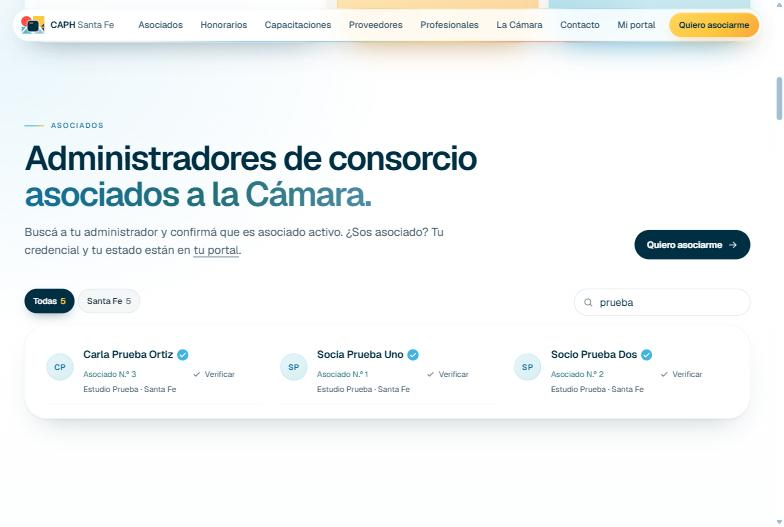
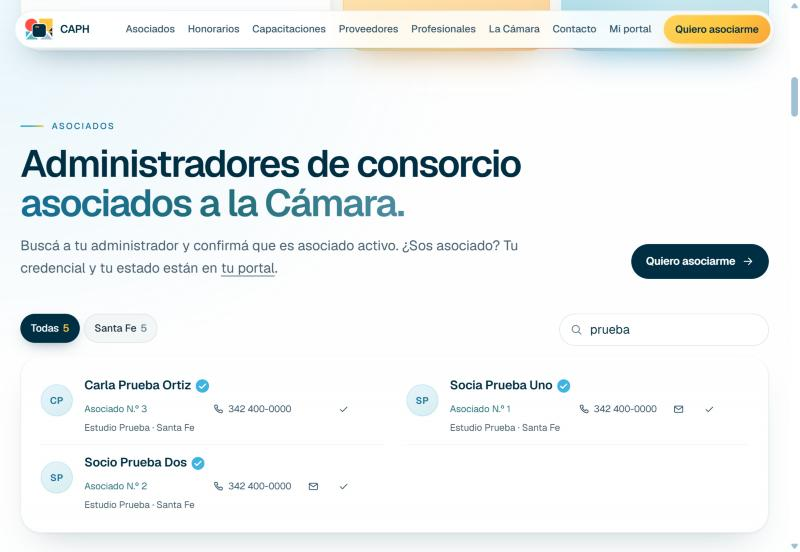
Asociados: teléfono y email en la sección de la web
- /api/caph/asociados suma teléfono y email (sigue sin dirección ni DNI/CUIT).
- La sección Asociados muestra el teléfono para llamar, el email y el ícono para verificar; el buscador
  también encuentra por teléfono o email.
- Menú: en pantallas de 1000 a 1240 px las ocho secciones entran en una línea.
- Instructivo actualizado (texto y captura).

diff --git a/components/Asociados.tsx b/components/Asociados.tsx
@@ -4,12 +4,12 @@ import { useId, useMemo, useState } from "react";
 import { coincide } from "../lib/buscar";
 import type { AsociadoPublico } from "../lib/content";
 import { Icon } from "./Icon";
-import { iniciales } from "./Proveedores";
+import { iniciales, telHref, telLabel } from "./Proveedores";
 
 /**
  * Directorio de asociados (administradores de consorcio), con el mismo formato que el de proveedores:
  * filtro por localidad, buscador y un adelanto hasta que se busca o se pide la lista entera.
- * Muestra solo datos públicos: nombre, N.º, estudio, localidad y web.
+ * Muestra nombre, N.º, estudio, localidad, teléfono, email y web (nunca la dirección ni el DNI).
  */
 export function Asociados({ asociados }: { asociados: AsociadoPublico[] }) {
   const searchId = useId();
@@ -27,7 +27,9 @@ export function Asociados({ asociados }: { asociados: AsociadoPublico[] }) {
   const list = useMemo(
     () =>
       asociados.filter(
-        (a) => (localidad === "todas" || a.localidad === localidad) && coincide(q, [a.nombre, a.estudio, a.localidad, a.numero && `N.º ${a.numero}`, a.numero])
+        (a) =>
+          (localidad === "todas" || a.localidad === localidad) &&
+          coincide(q, [a.nombre, a.estudio, a.localidad, a.email, a.numero && `N.º ${a.numero}`, a.numero], [a.telefono])
       ),
     [asociados, localidad, q]
   );
@@ -48,10 +50,10 @@ export function Asociados({ asociados }: { asociados: AsociadoPublico[] }) {
         </div>
         <div className="board__search">
           <label htmlFor={searchId} className="sr-only">
-            Buscar asociado por nombre, estudio, localidad o N.º
+            Buscar asociado por nombre, estudio, localidad, teléfono o N.º
           </label>
           <Icon name="search" size={18} />
-          <input id={searchId} type="search" placeholder="Nombre, estudio, localidad o N.º" value={q} onChange={(e) => setQ(e.target.value)} />
+          <input id={searchId} type="search" placeholder="Nombre, localidad, teléfono o N.º" value={q} onChange={(e) => setQ(e.target.value)} />
         </div>
       </div>
 
@@ -76,9 +78,21 @@ export function Asociados({ asociados }: { asociados: AsociadoPublico[] }) {
             <span className="board__rubro">{a.numero ? `Asociado N.º ${a.numero}` : "Asociado"}</span>
             {(a.estudio || a.localidad) && <span className="board__desc">{[a.estudio, a.localidad].filter(Boolean).join(" · ")}</span>}
             <span className="board__actions">
-              <a href={`/verificar/${a.id}`} aria-label={`Verificar a ${a.nombre}`} title="Verificar credencial">
+              {a.telefono && (
+                <a href={telHref(a.telefono)} aria-label={`Llamar a ${a.nombre}`}>
+                  <Icon name="phone" size={16} />
+                  <span>{telLabel(a.telefono)}</span>
+                </a>
+              )}
+              {a.email ? (
+                <a href={`mailto:${a.email}`} aria-label={`Escribirle a ${a.nombre} (${a.email})`} title={a.email}>
+                  <Icon name="mail" size={16} />
+                </a>
+              ) : (
+                <span className="board__slot" aria-hidden="true" />
+              )}
+              <a href={`/verificar/${a.id}`} aria-label={`Verificar la credencial de ${a.nombre}`} title="Verificar credencial">
                 <Icon name="check" size={16} />
-                <span>Verificar</span>
               </a>
               {a.web ? (
                 <a href={a.web} target="_blank" rel="noopener noreferrer" aria-label={`Sitio de ${a.nombre} (abre en otra pestaña)`}>

diff --git a/lib/instructivo.ts b/lib/instructivo.ts
@@ -97,11 +97,11 @@ export const GUIAS_SOCIOS: Guia[] = [
     resumen: "Para consorcios: confirmar que su administrador es asociado activo.",
     pasos: [
       {
-        texto: "En caphsf.ar tocá “Asociados” en el menú. Buscá por nombre, estudio, localidad o N.º de asociado.",
+        texto: "En caphsf.ar tocá “Asociados” en el menú. Buscá por nombre, estudio, localidad, teléfono o N.º de asociado. Desde la fila lo podés llamar o escribirle un email.",
         imagen: "/ayuda/asociados.jpg",
         alt: "Sección Asociados de la web con el buscador",
       },
-      { texto: "Tocá “Verificar” en la fila del asociado para ver si su credencial está vigente hoy." },
+      { texto: "Tocá el ícono ✓ (Verificar credencial) en la fila del asociado para ver si su credencial está vigente hoy." },
       { texto: "También podés usar “¿Sos asociado? Verificá tu estado”, en Herramientas, con el email del asociado." },
     ],
   },
@@ -121,7 +121,7 @@ export const GUIAS_PANEL: Guia[] = [
       { texto: "Revisá los datos de cada solicitud. El N.º de asociado se genera solo al aprobar; si querés, lo podés escribir a mano." },
       {
         texto:
-          "Tocá “Aprobar y publicar”. Los profesionales y proveedores aparecen en la web; los asociados aparecen en la sección Asociados (sin teléfono ni email).",
+          "Tocá “Aprobar y publicar”. Los profesionales y proveedores aparecen en la web; los asociados aparecen en la sección Asociados, con su teléfono y email de contacto (nunca la dirección ni el DNI).",
       },
       { texto: "Si algo está mal, tocá “Rechazar” y escribí el motivo: la persona lo ve en su portal, corrige y vuelve a enviar." },
       { texto: "Si la persona dijo que “ya figura en la web”, elegí su ficha y tocá “Aprobar y vincular”." },

diff --git a/lib/content.ts b/lib/content.ts
@@ -259,15 +259,25 @@ export async function getProfesionales(): Promise<Profesional[]> {
   }
 }
 
-/** Administradores de consorcio de la sección "Asociados": solo datos públicos (los elige /api/caph/asociados). */
-export type AsociadoPublico = { id: string; nombre: string; numero: string; estudio: string; localidad: string; web: string; foto: string };
+/** Administradores de consorcio de la sección "Asociados": los datos que elige /api/caph/asociados (sin dirección ni DNI). */
+export type AsociadoPublico = {
+  id: string;
+  nombre: string;
+  numero: string;
+  estudio: string;
+  localidad: string;
+  telefono: string;
+  email: string;
+  web: string;
+  foto: string;
+};
 
 export async function getAsociados(): Promise<AsociadoPublico[]> {
   try {
     const res = await fetch(`${PB_URL}/api/caph/asociados`, { cache: "no-store", signal: AbortSignal.timeout(2500) });
     if (!res.ok) return [];
     const json = (await res.json()) as { asociados?: AsociadoPublico[] };
-    return (json.asociados ?? []).map((a) => ({ ...a, web: enlace(a.web) }));
+    return (json.asociados ?? []).map((a) => ({ ...a, telefono: str(a.telefono), email: str(a.email), web: enlace(a.web) }));
   } catch {
     return [];
   }

diff --git a/pocketbase/pb_hooks/fichas.js b/pocketbase/pb_hooks/fichas.js
@@ -398,7 +398,7 @@ function sincronizarRolCuenta(app, record) {
 
 /**
  * Sección "Asociados" de la web: los administradores de consorcio aprobados, visibles y al día.
- * Devuelve solo nombre, N.º, estudio, localidad, web y foto: ni teléfono, ni email, ni dirección, ni DNI.
+ * Devuelve nombre, N.º, estudio, localidad, teléfono, email, web y foto: ni dirección, ni DNI/CUIT.
  * (La colección no los lista en público; esta ruta elige qué datos salen.)
  */
 function asociadosPublicos(app) {
@@ -418,6 +418,8 @@ function asociadosPublicos(app) {
       numero: r.getString("numero"),
       estudio: r.getString("estudio"),
       localidad: r.getString("localidad"),
+      telefono: r.getString("telefono").trim(),
+      email: emailValido(r.getString("email")) ? r.getString("email").trim() : "",
       web: /^https?:\/\//i.test(web) ? web : "",
       foto: foto ? `/api/files/${r.collection().id}/${r.id}/${encodeURIComponent(foto)}?thumb=160x160f` : "",
     };

diff --git a/app/globals.css b/app/globals.css
@@ -816,8 +816,25 @@ html[data-intro="on"] .site-header {
     background: rgba(63, 179, 226, 0.1);
     color: var(--c-petrol);
   }
+  /* ocho secciones: que ninguna se parta en dos renglones */
+  .site-nav ul a,
+  .site-header__name,
+  .site-nav .btn {
+    white-space: nowrap;
+  }
   .site-nav .btn {
     width: auto;
+  }
+}
+
+/* pantallas medianas: el menú entero entra en una línea */
+@media (min-width: 1000px) and (max-width: 1239px) {
+  .site-nav ul a {
+    padding: 0.5rem 0.55rem;
+    font-size: 0.875rem;
+  }
+  .site-header__name span {
+    display: none;
   }
 }
 
